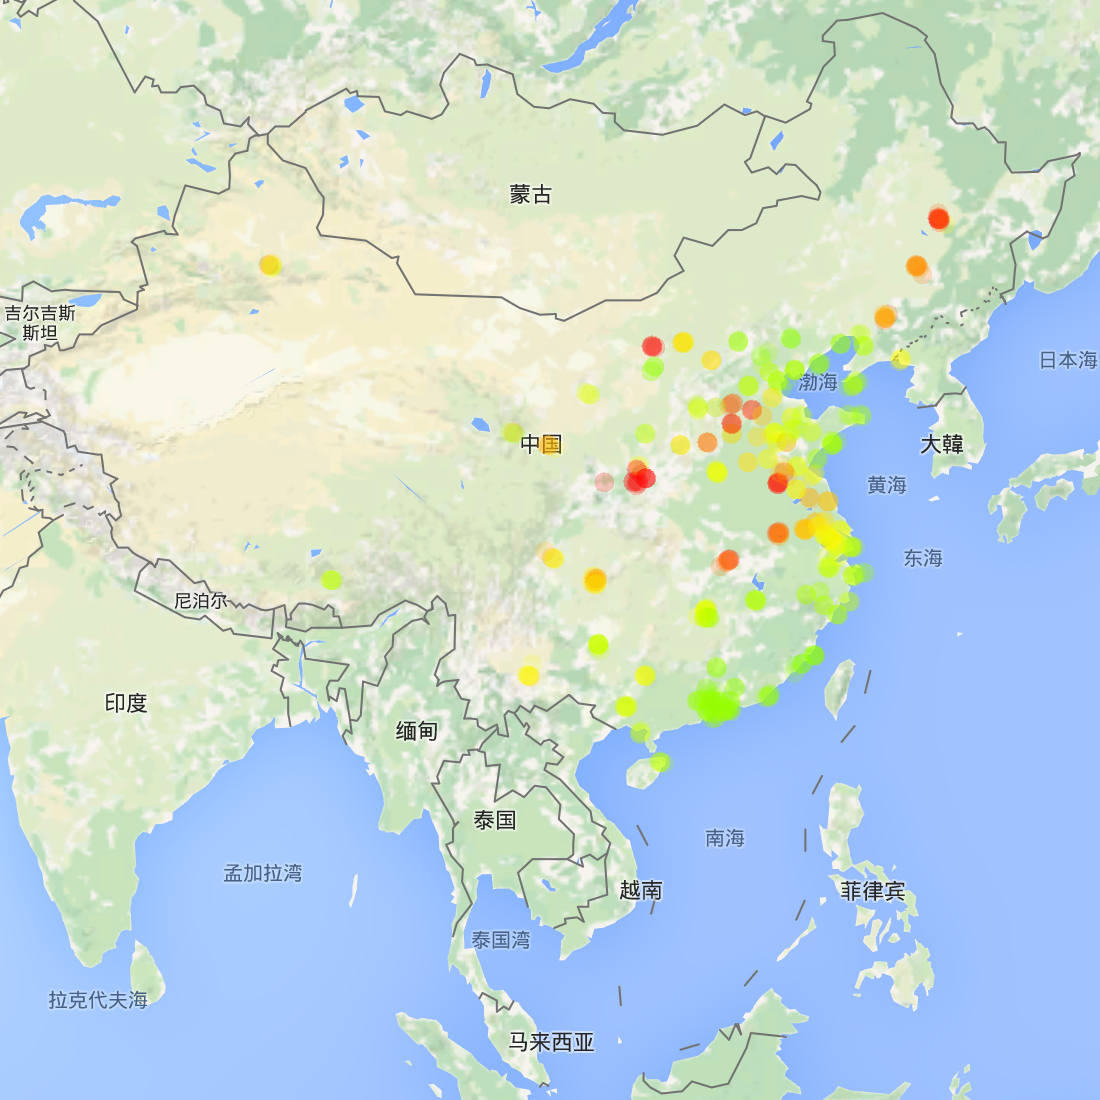
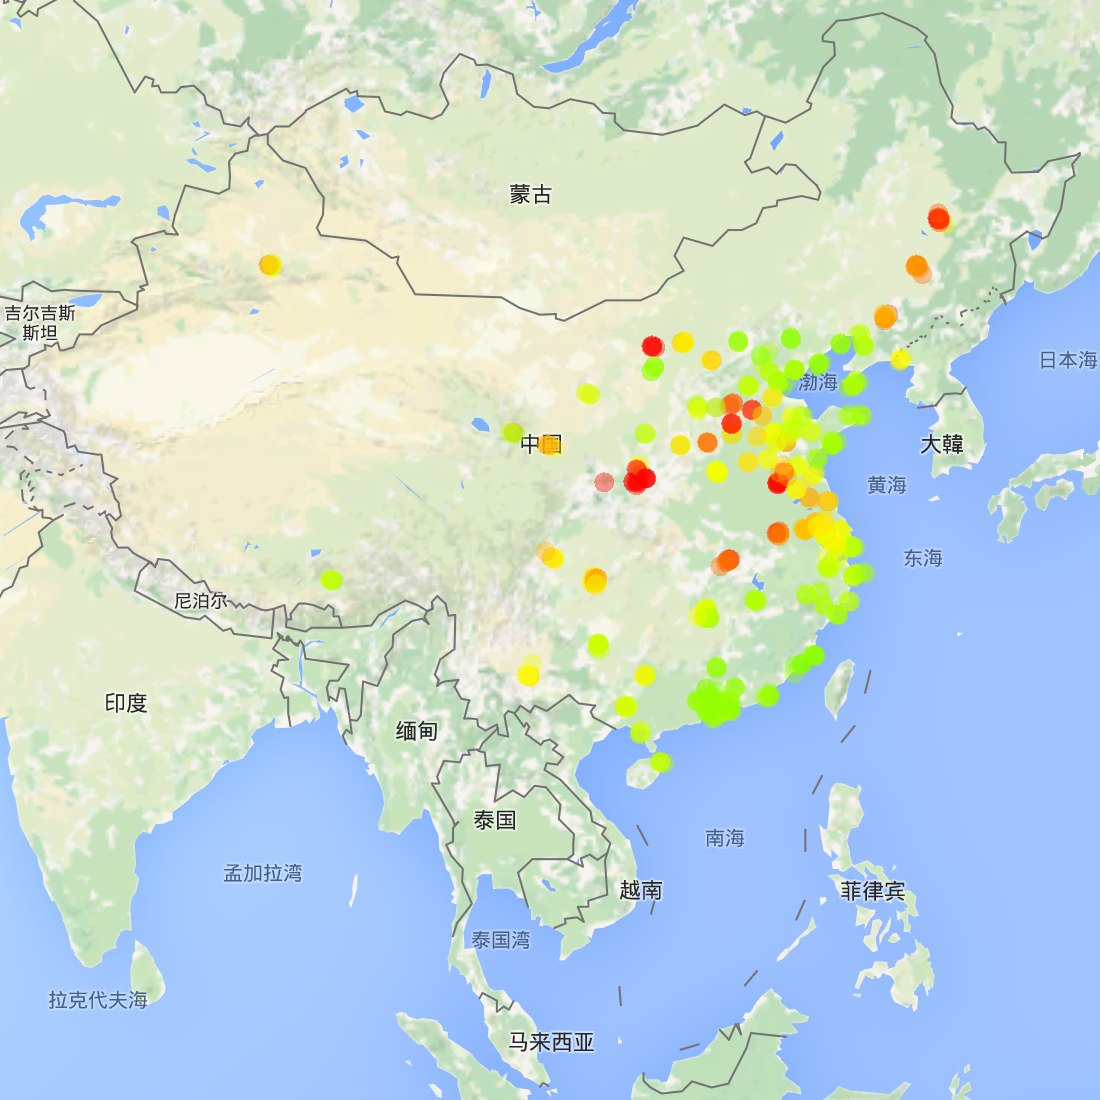
规范Color选择

diff --git a/src/main/java/org/pujun/heatmap/HeatMap.java b/src/main/java/org/pujun/heatmap/HeatMap.java
@@ -27,8 +27,8 @@ import static java.lang.Math.ceil;
  */
 public class HeatMap {
     private String timePoint;
-    private Color maxColor = new Color(255,0,0,50);
-    private Color minColor = new Color(127,255,0,50);
+    private Color maxColor = new Color(255,0,0,100);
+    private Color minColor = new Color(127,255,0,100);
     private double minValue,maxValue;
     private static final String CITY_PATH = "/Users/milletpu/airvis/src/main/webapp/maps/china_cities.json";
     private static final String INPUT_IMAGE= "/Users/milletpu/airvis/src/main/java/org/pujun/heatmap/china-map-screenshot.png";
@@ -99,10 +99,10 @@ public class HeatMap {
 
         int selectCorlor = (int) ceil((value - minValue) / (maxValue - minValue) * 383);    //383种渐变颜色
         if(selectCorlor >= 0 && selectCorlor <= 127){
-            thisColor = new Color(minColor.getRed()+selectCorlor,255,0,50);
+            thisColor = new Color(minColor.getRed()+selectCorlor,255,0,100);
             return thisColor;
         }else if(selectCorlor >=128 && selectCorlor <= 383){
-            thisColor = new Color(255,minColor.getGreen()-(selectCorlor-128),0,50);
+            thisColor = new Color(255,minColor.getGreen()-(selectCorlor-128),0,100);
             return thisColor;
         }else if(selectCorlor > 383 && selectCorlor < 800){
             return maxColor;
